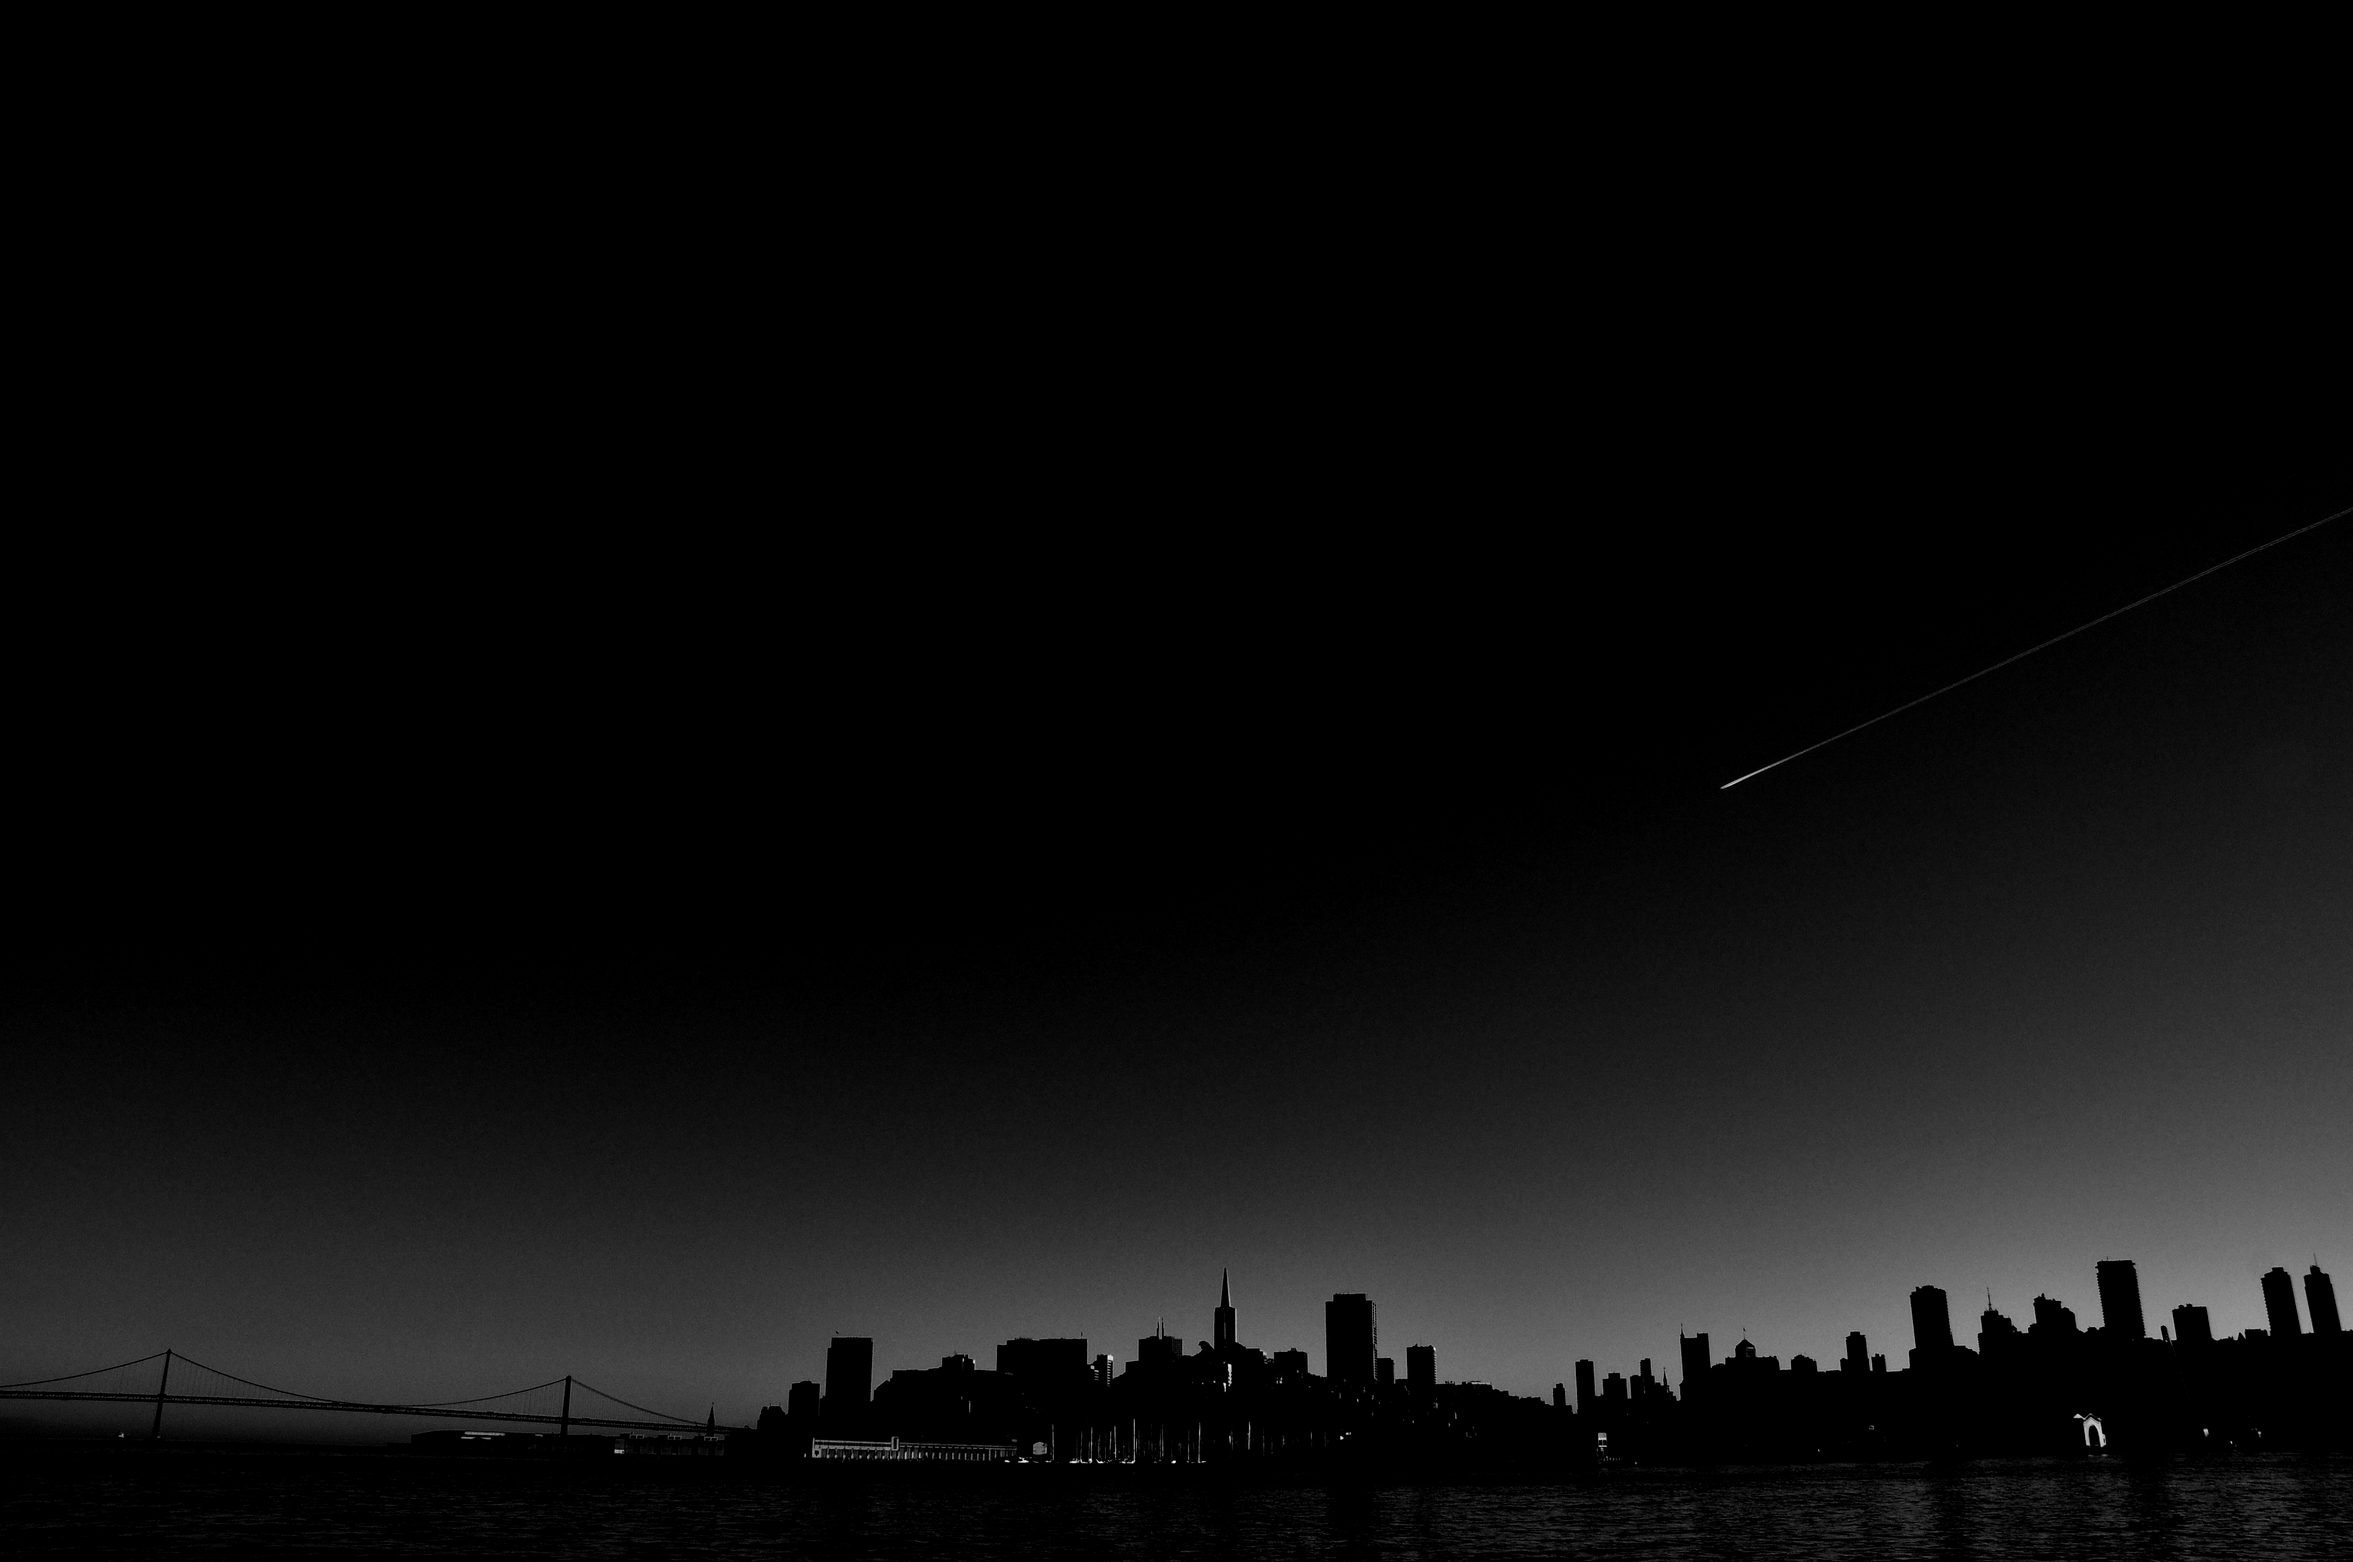
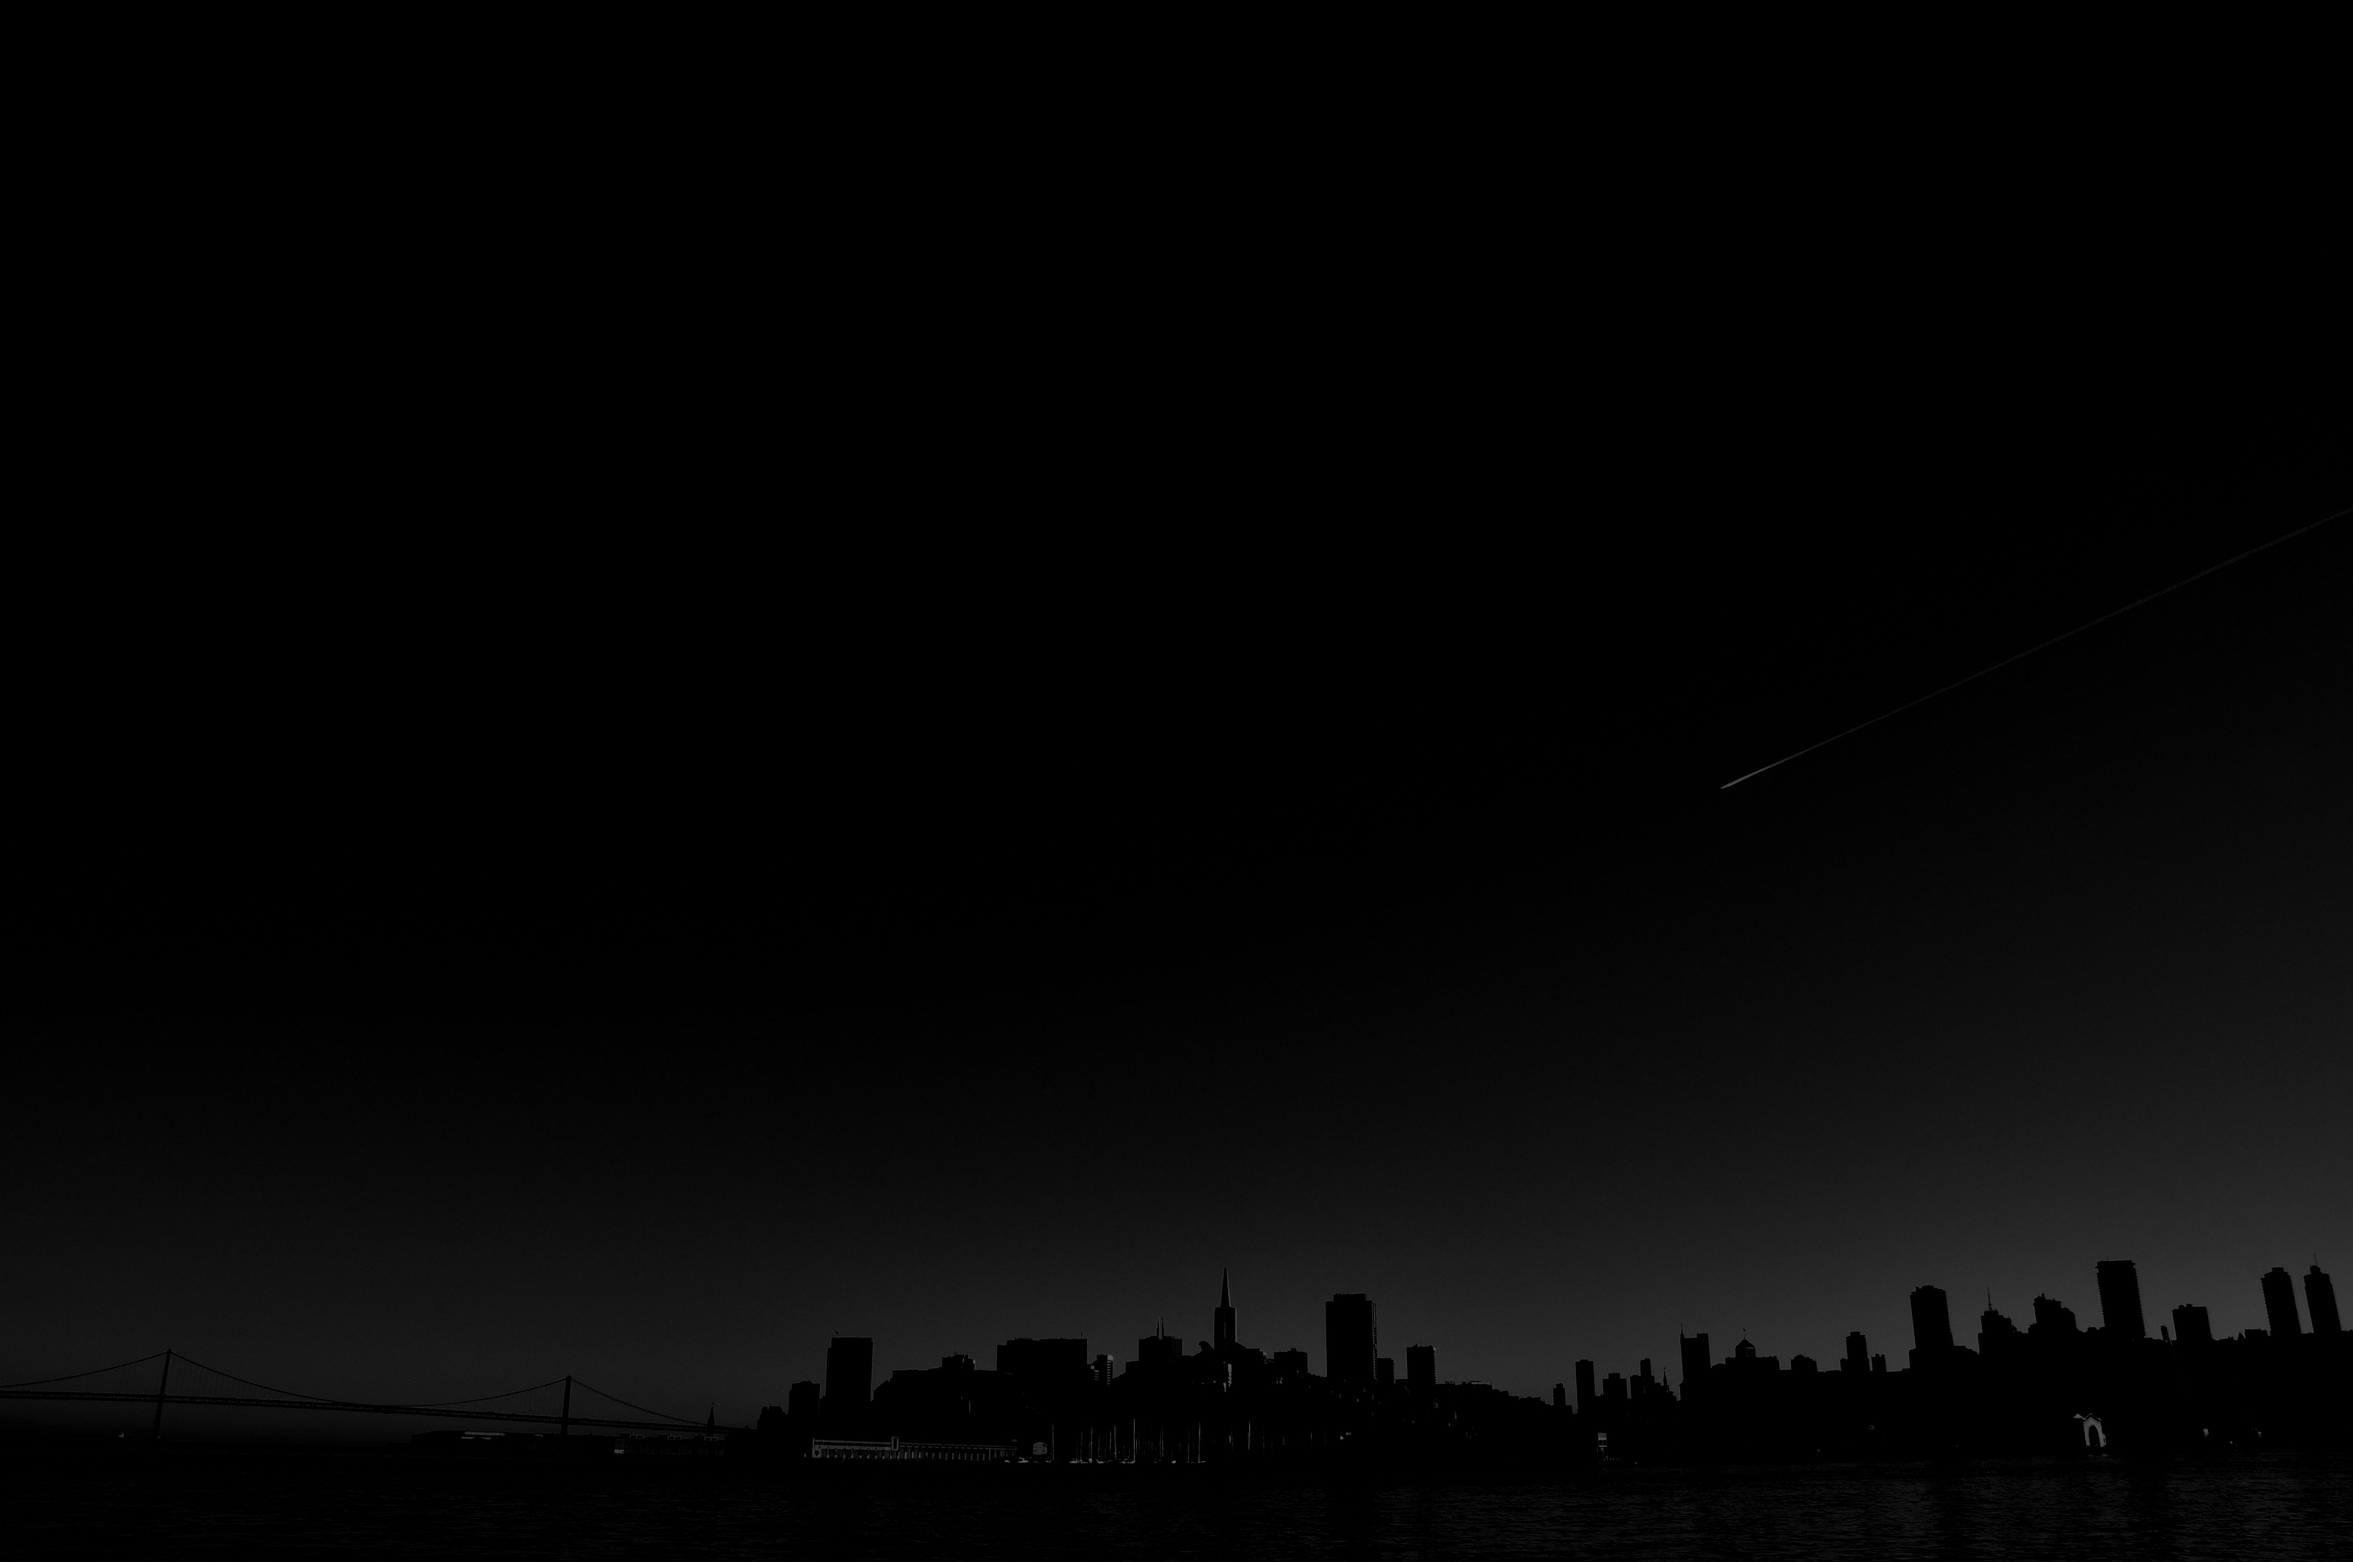
removed opacity filters because performance's bad w/ it

diff --git a/style.css b/style.css
@@ -124,12 +124,12 @@ html {
     /* display: inline-block; */
 }
 
-#home img.background {
+/*#home img.background {
     opacity: 0.14;
-}
+}*/
 
 #bio img.background {
-    opacity: 0.4;
+    /*opacity: 0.4;*/
     background-position: bottom;
     /* position: absolute; */
     /* vertical-align: bottom; */
@@ -192,10 +192,10 @@ html {
     right: 50%;
 }
 
-#projects .background {
+/*#projects .background {
     opacity: 0.1;
     display: none;
-}
+}*/
 
 .big-content {
     /* background-color: white; */
@@ -213,9 +213,9 @@ html {
 }
 
 
-#contact img.background {
+/*#contact img.background {
     opacity: 0.2;
-}
+}*/
 
 .proj-item-window {
     display: none;
@@ -227,14 +227,14 @@ html {
     /* background-color: black; */
 }
 
-#resume img.background {
+/*#resume img.background {
     opacity: 0.2;
-}
+}*/
 
-#resume iframe {
+/*#resume iframe {
     width: 90%;
     height: 90%;
-}
+}*/
 
 #resume #resume-pic {
     height: 70%;    
@@ -545,7 +545,7 @@ body.noscroll{
 .proj-item-window .background {
     top: 0;
     background-color: black;
-    opacity: 0.7;
+/*    opacity: 0.7;*/
 }
 
 .no-js #loader { display: none;  }

diff --git a/assets/js/script.js b/assets/js/script.js
@@ -107,7 +107,7 @@ $('.proj-item').click(function() {
 	$('.proj-item-window ul').html(y);
 	setTimeout(	function() {
 		$(".proj-item-window .slides").responsiveSlides();
-	}, 1000);
+	}, 300);
 	$('.proj-item-window').slideDown();
 	$('body').addClass('noscroll');
 });

diff --git a/index.html b/index.html
@@ -107,7 +107,7 @@
 	<div class="container" id="projects">
 
 		</script>
-		<img src="assets/img/proj-bg.png" class="background">
+		<!-- <img src="assets/img/proj-bg.png" class="background"> -->
 
 		<div class="content">
 			<p class="sec-headings">PROJECTS</p>
